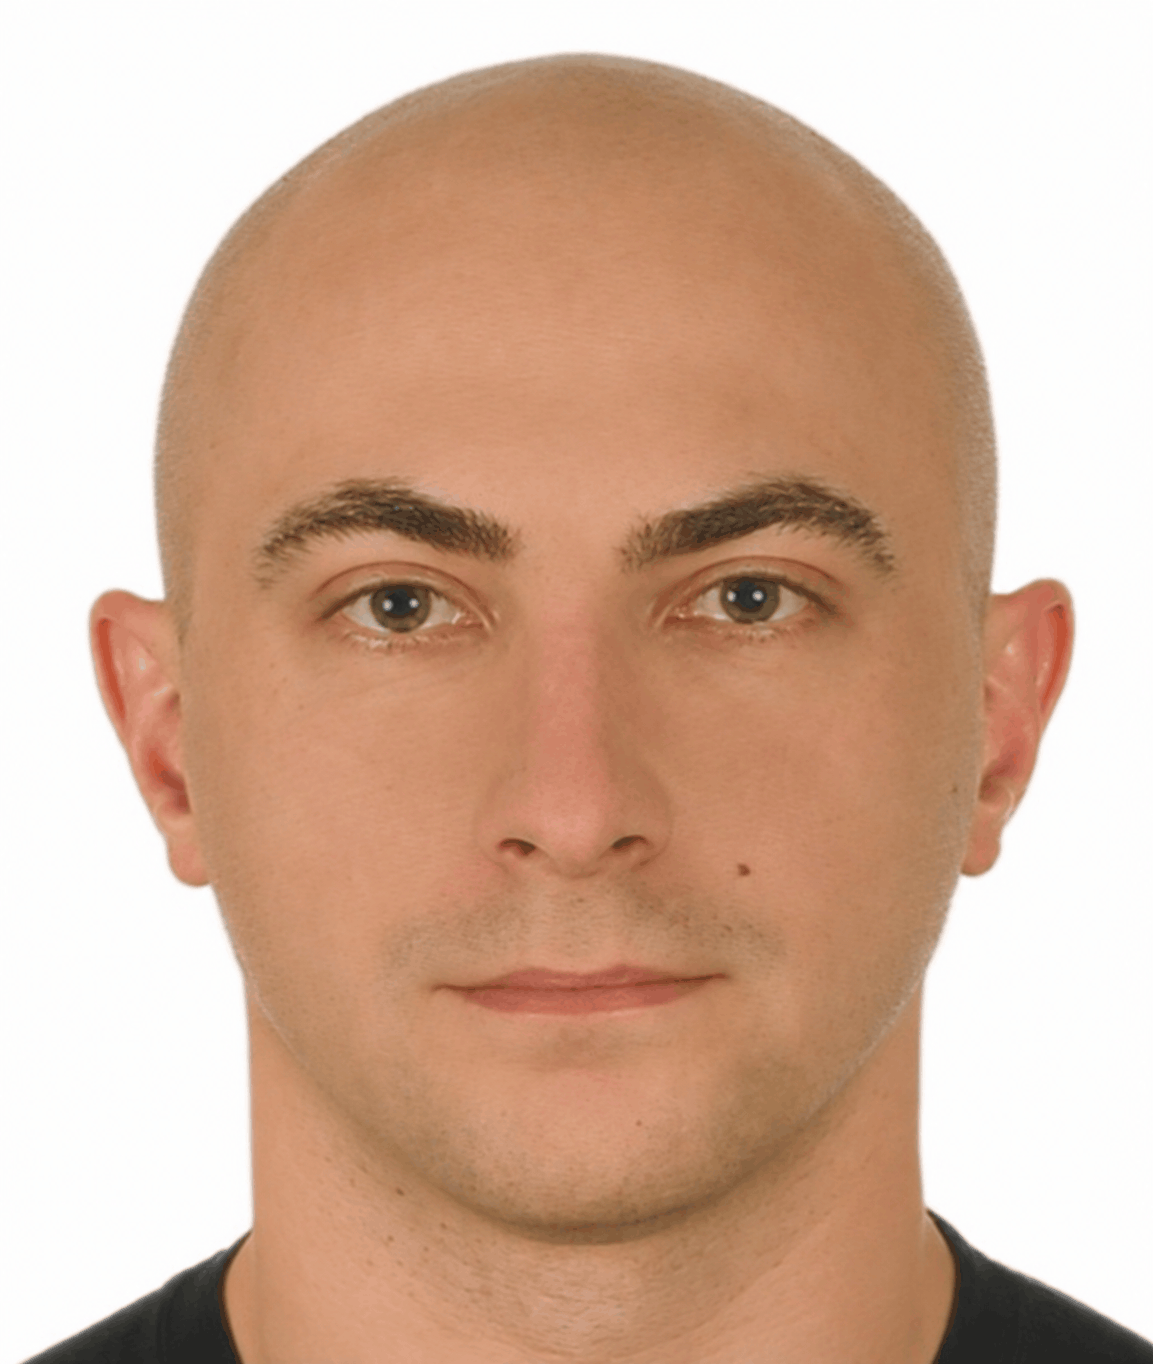
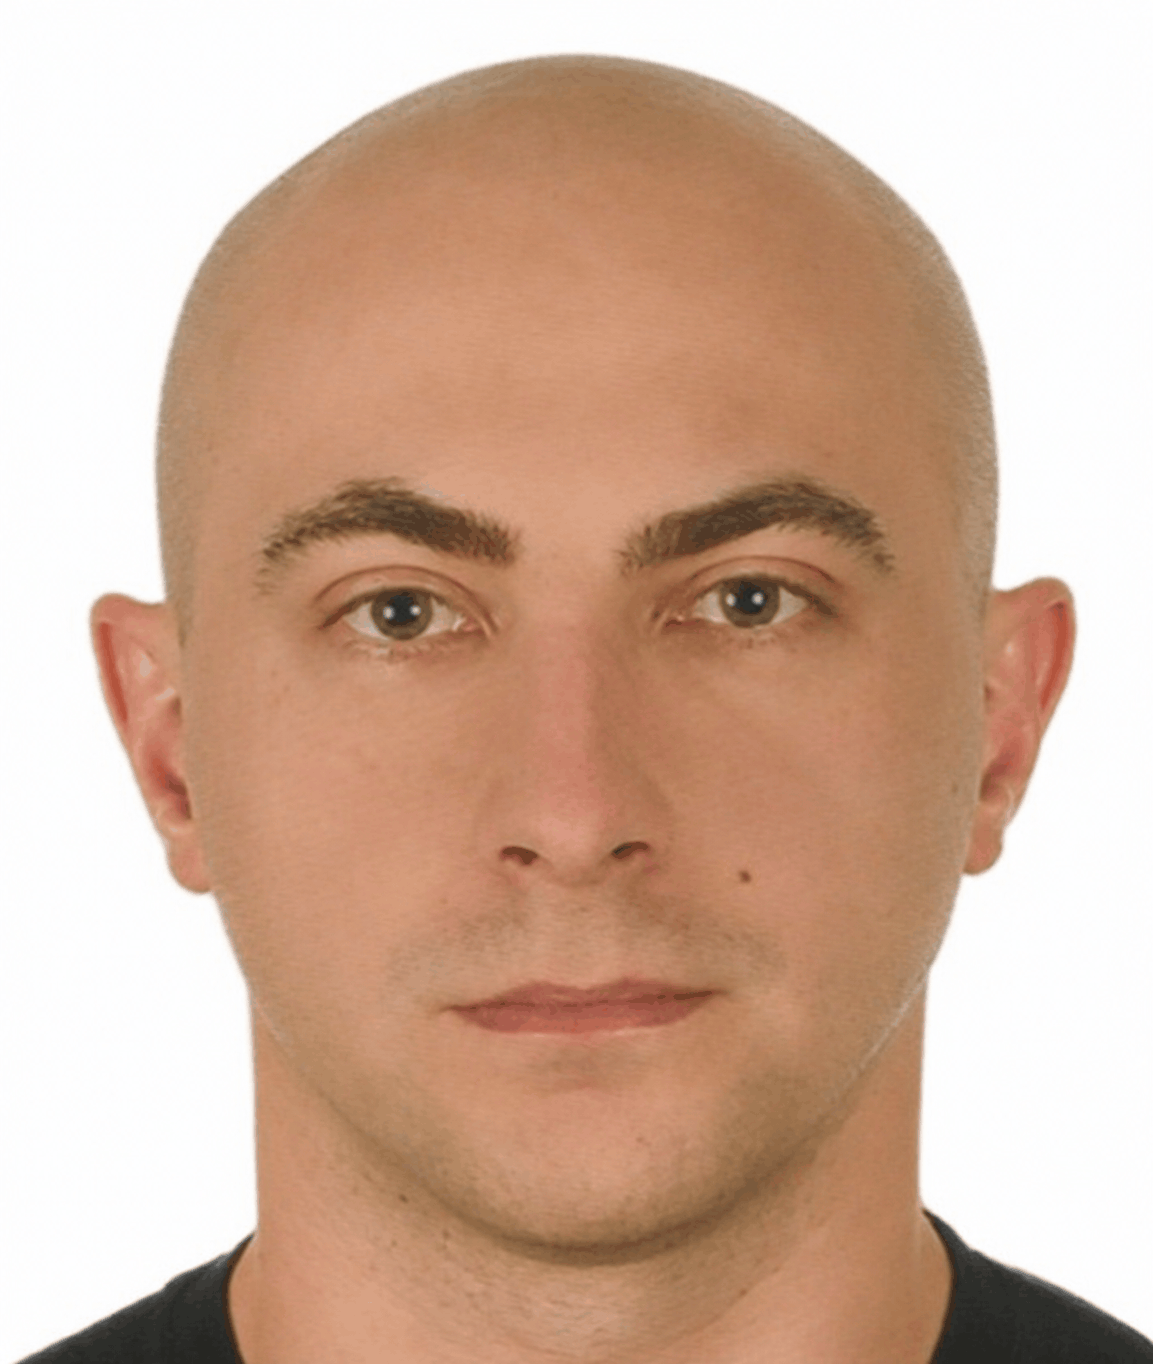
perf: cache OG font reads so image routes can prerender

diff --git a/src/lib/og-fonts.ts b/src/lib/og-fonts.ts
@@ -3,11 +3,22 @@ import { join } from "node:path";
 
 const FONTS_DIR = join(process.cwd(), "src/assets/fonts");
 
+/**
+ * Cached so image routes don't count as dynamic: with cacheComponents,
+ * uncached file reads would make them render on every request.
+ */
+async function readFontFile(fileName: string): Promise<ArrayBuffer> {
+  "use cache";
+  const file = await readFile(join(FONTS_DIR, fileName));
+  // Copy into a plain ArrayBuffer — serializable for the cache and accepted by next/og.
+  return new Uint8Array(file).buffer;
+}
+
 /** Raleway for next/og. Satori needs raw TTF/OTF/WOFF data — WOFF2 is not supported. */
 export async function loadOgFonts() {
   const [regular, bold] = await Promise.all([
-    readFile(join(FONTS_DIR, "Raleway-Regular.ttf")),
-    readFile(join(FONTS_DIR, "Raleway-Bold.ttf")),
+    readFontFile("Raleway-Regular.ttf"),
+    readFontFile("Raleway-Bold.ttf"),
   ]);
 
   return [
